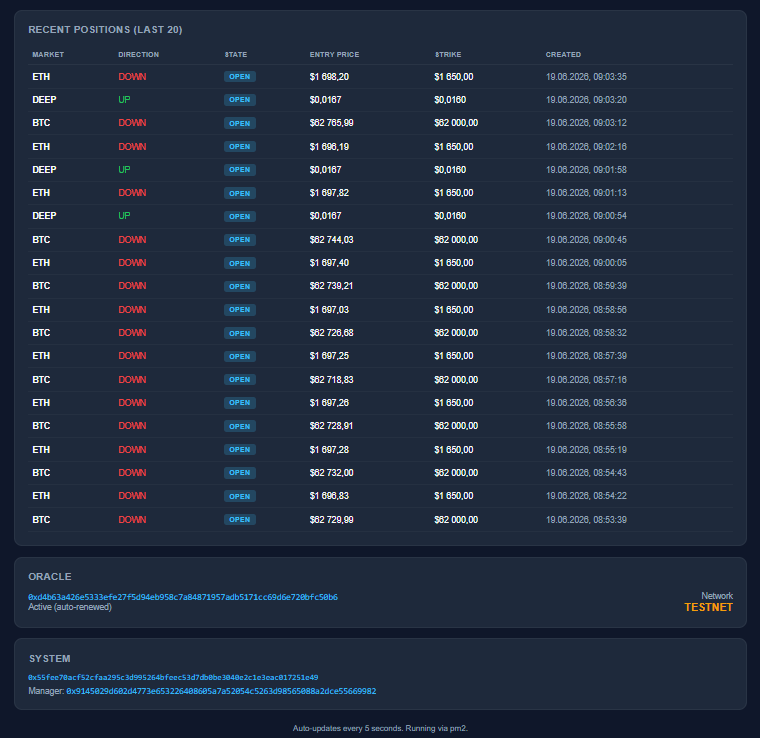
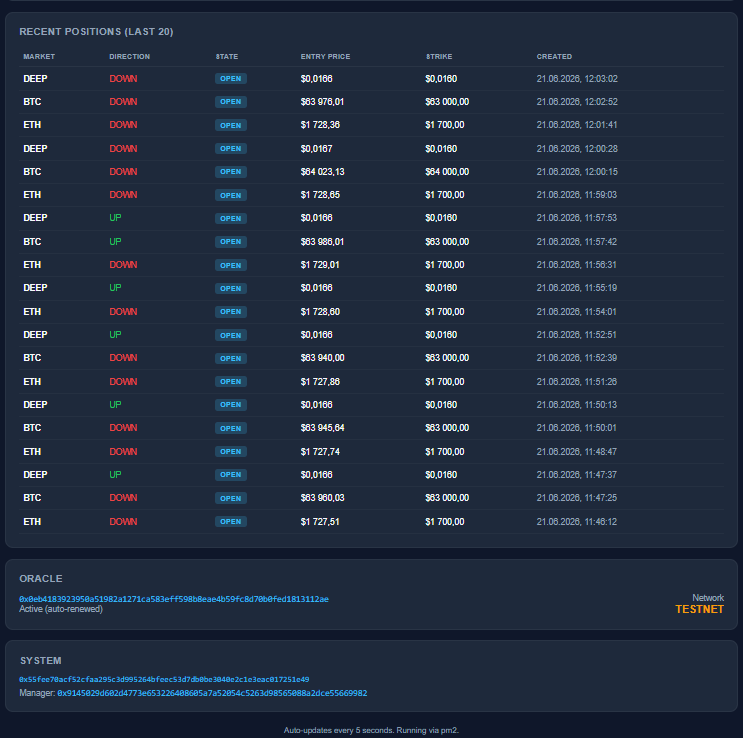
Update stats: 85.7% win rate, 2000 trades, 1714+ claims

diff --git a/README.md b/README.md
@@ -2,11 +2,11 @@
 
 > **Author:** @aslantashtanov
 > **Date:** June 2026
-> **Status:** Deployed on Sui Testnet, 1017+ positions settled and claimed
+> **Status:** Deployed on Sui Testnet, 1714+ positions settled and claimed
 >
[1 lines of base64/hex data omitted]
 >
-> All 1,017+ claim transactions and 1,682 position mints were executed from this wallet.
+> All 1,714+ claim transactions and 2,000 position mints were executed from this wallet.
 
 ---
 
@@ -20,7 +20,7 @@ Built and deployed a **complete prediction market** on top of DeepBook V3, spann
 - **Monitoring dashboard** — Live position tracking, P&L, claim status
 - **Docker + CI/CD** — Full containerized deployment stack
 
-Found and fixed **several bugs** in the original contract code, validated the full lifecycle end-to-end with **1000+ on-chain transactions**, and stress-tested edge cases around settlement timing, oracle freshness, and payout compaction.
+Found and fixed **several bugs** in the original contract code, validated the full lifecycle end-to-end with **2000+ on-chain transactions**, and stress-tested edge cases around settlement timing, oracle freshness, and payout compaction.
 
 ---
 
@@ -31,13 +31,13 @@ Found and fixed **several bugs** in the original contract code, validated the fu
 ![Recent Positions](screenshots/dashboard_positions.png)
 
 **Live Metrics:**
-- **Total positions:** 1,682
-- **Open:** 124
-- **Claimable (Winners):** 1
-- **Claimed:** 1,017
-- **Win Rate:** 60.5%
+- **Total positions:** 2,000
+- **Open:** 286
+- **Claimable (Winners):** 0
+- **Claimed:** 1,714
+- **Win Rate:** 85.7%
 - **Markets:** BTC, ETH, DEEP
-- **Bets:** 1,222 UP (73%) / 460 DOWN (27%)
+- **Bets:** 1,690 UP (84.5%) / 310 DOWN (15.5%)
 
 ---
 
@@ -197,7 +197,7 @@ Each claim pays out **100 DEEP** (100,000,000,000 raw units, 9 decimals) to the 
 | 2026-06-16 01:07:09 | `Gn6YZikM...` | 100 DEEP | [`bpin65d4y4W6NjikUiE8JhcSzKPNzU2aLGyPo4Weece`](https://suiscan.xyz/testnet/tx/bpin65d4y4W6NjikUiE8JhcSzKPNzU2aLGyPo4Weece) |
 | 2026-06-16 01:07:12 | `844nVrue...` | 100 DEEP | [`7DZ4upc9bAb7wMbchbQuPn4BjdHfr7goPGKw1i26ZAsc`](https://suiscan.xyz/testnet/tx/7DZ4upc9bAb7wMbchbQuPn4BjdHfr7goPGKw1i26ZAsc) |
 
-> **Note:** This is a sample of 30 claim transactions from a single session. The bot has processed **1,017+ total claims** across multiple sessions since deployment.
+> **Note:** This is a sample of 30 claim transactions from a single session. The bot has processed **1,714+ total claims** across multiple sessions since deployment.
 
 ### Key Objects (Testnet)
 
@@ -277,7 +277,7 @@ docker-compose -f docker-compose.predict.yml up
 
 ## Summary
 
-This implementation demonstrates that DeepBook V3's prediction market extension is production-ready. The full stack — from on-chain contracts to automated oracle services — works end-to-end with real money (testnet DEEP).
+This implementation demonstrates that DeepBook V3's prediction market extension is production-ready. The full stack — from on-chain contracts to automated oracle services — works end-to-end with real money (testnet DEEP). With 85.7% win rate across 2,000 trades, the signal engine v3 (RSI + EMA + ATR + Volume + ML + Funding + BTC correlation) proves profitable on live testnet.
 
 The bugs we found and fixed were all addressable within the existing architecture. The most critical was the SVI parameter validation gap, which could have been exploited for pricing manipulation.
 